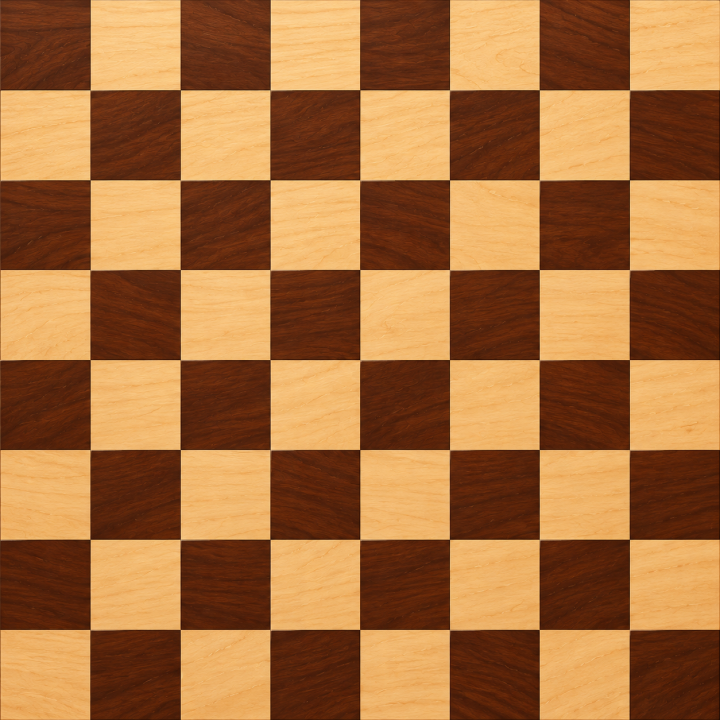
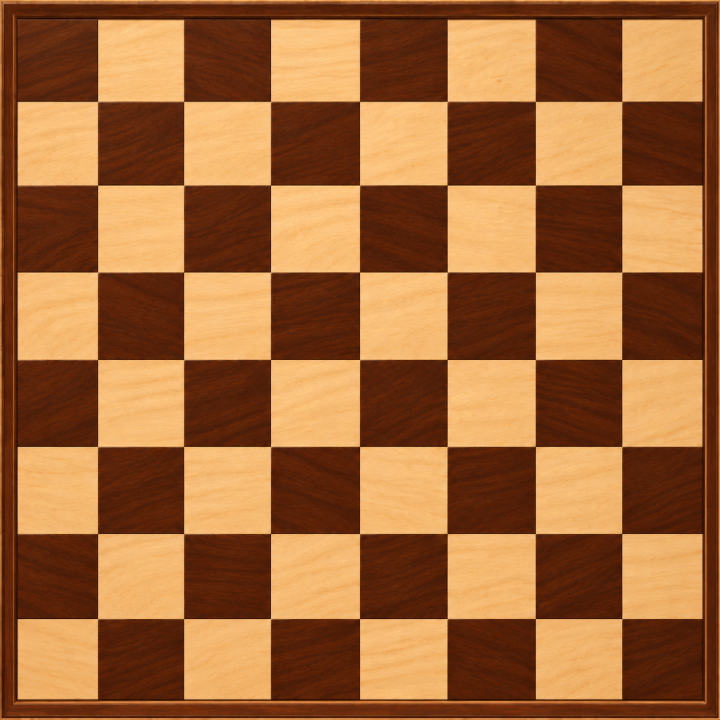
Add files via upload

diff --git a/lib/games/chess/chess_screen.dart b/lib/games/chess/chess_screen.dart
@@ -48,7 +48,7 @@ class ChessScreen extends StatefulWidget {
 }
 
 class _ChessScreenState extends State<ChessScreen> with TickerProviderStateMixin {
-  static const Color _bg = AppColors.screenCoral; // #3D1C0F
+  static const Color _bg = Color(0xFF0F3D28); // background/screen-green
 
   late ChessGame _game = ChessGame();
   int? _selected;
@@ -333,7 +333,7 @@ class _ChessScreenState extends State<ChessScreen> with TickerProviderStateMixin
   Widget _table(ChessText t) {
     return LayoutBuilder(
       builder: (context, c) {
-        const barH = 58.0, gap = 12.0;
+        const barH = 58.0, gap = 24.0;
         final size = min(c.maxWidth, c.maxHeight - 2 * barH - 2 * gap - 16).clamp(200.0, 720.0).toDouble();
         final top = _playerBar(t, white: false);
         return Center(
@@ -388,12 +388,11 @@ class _ChessScreenState extends State<ChessScreen> with TickerProviderStateMixin
             height: 44,
             padding: const EdgeInsets.all(2),
             decoration: BoxDecoration(
-              borderRadius: BorderRadius.circular(14),
               border: Border.all(color: ring, width: 2),
             ),
             child: Container(
               alignment: Alignment.center,
-              decoration: BoxDecoration(color: avatarBg, borderRadius: BorderRadius.circular(10)),
+              decoration: BoxDecoration(color: avatarBg),
               child: Text(avatar, style: const TextStyle(fontSize: 21, height: 1.1)),
             ),
           ),
@@ -489,6 +488,9 @@ class _ChessScreenState extends State<ChessScreen> with TickerProviderStateMixin
 
   // ───────────────────────── Board ─────────────────────────
 
+  /// Width of the board art's frame, as a fraction of the board size.
+  static const double _frame = 14 / 720;
+
   Widget _board(ChessText t, double size) {
     return Stack(
       clipBehavior: Clip.none,
@@ -501,11 +503,18 @@ class _ChessScreenState extends State<ChessScreen> with TickerProviderStateMixin
             child: Image.asset('assets/chess/board.webp', fit: BoxFit.fill, filterQuality: FilterQuality.medium),
           ),
         ),
+        // The board art has a wooden frame: the 8 × 8 grid sits 14/720 of
+        // the width in from each edge, so pieces, highlights and taps use
+        // that inner square.
         Positioned.fill(
+          left: size * _frame,
+          top: size * _frame,
+          right: size * _frame,
+          bottom: size * _frame,
           child: GestureDetector(
             behavior: HitTestBehavior.opaque,
             onTapUp: (d) {
-              final cell = size / 8;
+              final cell = size * (1 - 2 * _frame) / 8;
               final col = (d.localPosition.dx / cell).floor().clamp(0, 7);
               final row = (d.localPosition.dy / cell).floor().clamp(0, 7);
               _onTapSquare(row * 8 + col);
@@ -559,7 +568,7 @@ class _ChessScreenState extends State<ChessScreen> with TickerProviderStateMixin
     final card = Container(
       padding: const EdgeInsets.fromLTRB(16, 12, 16, 16),
       decoration: BoxDecoration(
-        color: const Color(0xF22A140A),
+        color: const Color(0xF20A2A1B),
         borderRadius: BorderRadius.circular(20),
         border: Border.all(color: AppColors.brandYellow, width: 2),
       ),
@@ -663,7 +672,7 @@ class _ChessScreenState extends State<ChessScreen> with TickerProviderStateMixin
       duration: const Duration(milliseconds: 350),
       builder: (context, v, child) => Opacity(opacity: v, child: child),
       child: Container(
-        color: const Color(0xD9180A04),
+        color: const Color(0xD9061A10),
         padding: const EdgeInsets.symmetric(horizontal: 32),
         alignment: Alignment.center,
         child: ConstrainedBox(
@@ -1017,7 +1026,7 @@ class _HowToSheet extends StatelessWidget {
           gradient: LinearGradient(
             begin: Alignment.topLeft,
             end: Alignment.bottomRight,
-            colors: [Color(0xFF4A2412), Color(0xFF2A1309)],
+            colors: [Color(0xFF12442B), Color(0xFF0A2418)],
           ),
           borderRadius: BorderRadius.vertical(top: Radius.circular(28)),
         ),
@@ -1044,7 +1053,7 @@ class _HowToSheet extends StatelessWidget {
                       width: 26,
                       height: 26,
                       alignment: Alignment.center,
-                      decoration: const BoxDecoration(shape: BoxShape.circle, color: Color(0xFFFF7A45)),
+                      decoration: const BoxDecoration(shape: BoxShape.circle, color: Color(0xFF33C481)),
                       child: Text('${i + 1}', style: AppFonts.baloo(fontSize: 13, fontWeight: FontWeight.w800)),
                     ),
                     const SizedBox(width: 14),
@@ -1067,9 +1076,9 @@ class _HowToSheet extends StatelessWidget {
               Container(
                 padding: const EdgeInsets.all(16),
                 decoration: BoxDecoration(
-                  color: const Color(0x1AFF7A45),
+                  color: const Color(0x1A33C481),
                   borderRadius: BorderRadius.circular(16),
-                  border: Border.all(color: const Color(0x40FF7A45)),
+                  border: Border.all(color: const Color(0x4033C481)),
                 ),
                 child: Column(
                   crossAxisAlignment: CrossAxisAlignment.start,

diff --git a/lib/home/home_screen.dart b/lib/home/home_screen.dart
@@ -168,7 +168,7 @@ class _HomeBody extends StatelessWidget {
               _SectionTitle(isHi ? 'क्लासिक खेल' : 'Classic Games'),
               const SizedBox(height: 8),
               // Three classic games — same full-width square cards as the
-              // Party row; Chess uses the My First purple.
+              // Party row; Memory Grid uses the My First purple, Chess the green.
               LayoutBuilder(
                 builder: (context, c) {
                   final side = (c.maxWidth - 2 * 10) / 3;
@@ -177,10 +177,10 @@ class _HomeBody extends StatelessWidget {
                       small(side, 3, AppColors.snakesAndLadders, 'snl', isHi ? 'साँप-सीढ़ी' : 'Snakes & Ladders',
                           () => const SnlHomeScreen()),
                       const SizedBox(width: 10),
-                      small(side, 4, AppColors.memoryGrid, 'memory_grid', isHi ? 'मेमोरी जाल' : 'Memory Grid',
+                      small(side, 4, AppColors.first, 'memory_grid', isHi ? 'मेमोरी जाल' : 'Memory Grid',
                           () => const MemoryGridHomeScreen()),
                       const SizedBox(width: 10),
-                      small(side, 5, AppColors.first, 'chess', isHi ? 'शतरंज' : 'Chess', () => const ChessHomeScreen()),
+                      small(side, 5, AppColors.memoryGrid, 'chess', isHi ? 'शतरंज' : 'Chess', () => const ChessHomeScreen()),
                     ],
                   );
                 },

diff --git a/lib/games/memory_grid/mg_data.dart b/lib/games/memory_grid/mg_data.dart
@@ -27,20 +27,20 @@ class MgData {
   static const int duelHintMs = 1200;
 
   // Root tokens.
-  static const Color accent = Color(0xFF16A34A);
-  static const Color accent2 = Color(0xFF22C55E);
+  static const Color accent = Color(0xFF6A4FC2); // module/purple (My First theme)
+  static const Color accent2 = Color(0xFF8B6CF0);
   static const Color gold = Color(0xFFFBBF24);
   static const Color green = Color(0xFF15A34A); // correct-tap
   static const Color red = Color(0xFFF87171); // wrong-tap
   static const Color dotLit = Color(0xFF4ADE80);
   static const Color dotIdle = Color(0x33FFFFFF); // rgba(255,255,255,.2)
 
-  static const Color screenBg = Color(0xFF0F3D28); // background/screen-green
+  static const Color screenBg = Color(0xFF1B0F3D); // background/screen-purple — same as My First
 
   // ---- Figma (Memory Grid L1 / L2 / L3) tokens -------------------------
-  static const Color titleAccent = Color(0xFF6EE0AC); // "Grid", section lines
+  static const Color titleAccent = Color(0xFFC3B0F5); // module/purple-light
   static const Color tileEmpty = Color(0x59000000); // background/slot-empty
-  static const Color tileLit = Color(0xFF33C481); // module/green
+  static const Color tileLit = Color(0xFF8B6CF0); // purple (My First theme)
   static const Color tileWrong = Color(0xFFFF7A45); // module/coral
   static const Color tileNumber = Color(0xFF1B2340); // text/on-light
 

diff --git a/lib/games/memory_grid/memory_grid_game_screen.dart b/lib/games/memory_grid/memory_grid_game_screen.dart
@@ -726,7 +726,7 @@ class _MemoryGridGameScreenState extends State<MemoryGridGameScreen> {
                       ..style = PaintingStyle.stroke
                       ..strokeWidth = 7
                       ..strokeJoin = StrokeJoin.round
-                      ..color = const Color(0xFF0A3D20),
+                      ..color = const Color(0xFF2A1A5E),
                     shadows: const [Shadow(color: Color(0x99000000), blurRadius: 12, offset: Offset(0, 4))],
                   ),
                 ),
@@ -746,7 +746,7 @@ class _MemoryGridGameScreenState extends State<MemoryGridGameScreen> {
   Widget _buildGameOver(MgText t) {
     return Positioned.fill(
       child: Container(
-        color: const Color(0xF20A2A1B),
+        color: const Color(0xF2140A30),
         alignment: Alignment.center,
         child: SingleChildScrollView(
           child: Padding(

diff --git a/lib/games/memory_grid/memory_grid_home_screen.dart b/lib/games/memory_grid/memory_grid_home_screen.dart
@@ -228,7 +228,7 @@ class MgHowToPlaySheet extends StatelessWidget {
         gradient: LinearGradient(
           begin: Alignment.topLeft,
           end: Alignment.bottomRight,
-          colors: [Color(0xFF12442B), Color(0xFF0A2418)],
+          colors: [Color(0xFF1E1040), Color(0xFF0D2040)], // same sheet as My First
         ),
         borderRadius: BorderRadius.vertical(top: Radius.circular(26)),
       ),

diff --git a/lib/games/chess/chess_home_screen.dart b/lib/games/chess/chess_home_screen.dart
@@ -22,7 +22,7 @@ import 'chess_translations.dart';
 class ChessHomeScreen extends StatelessWidget {
   const ChessHomeScreen({super.key});
 
-  static const Color screenBg = AppColors.screenCoral; // #3D1C0F
+  static const Color screenBg = Color(0xFF0F3D28); // background/screen-green
 
   @override
   Widget build(BuildContext context) {
